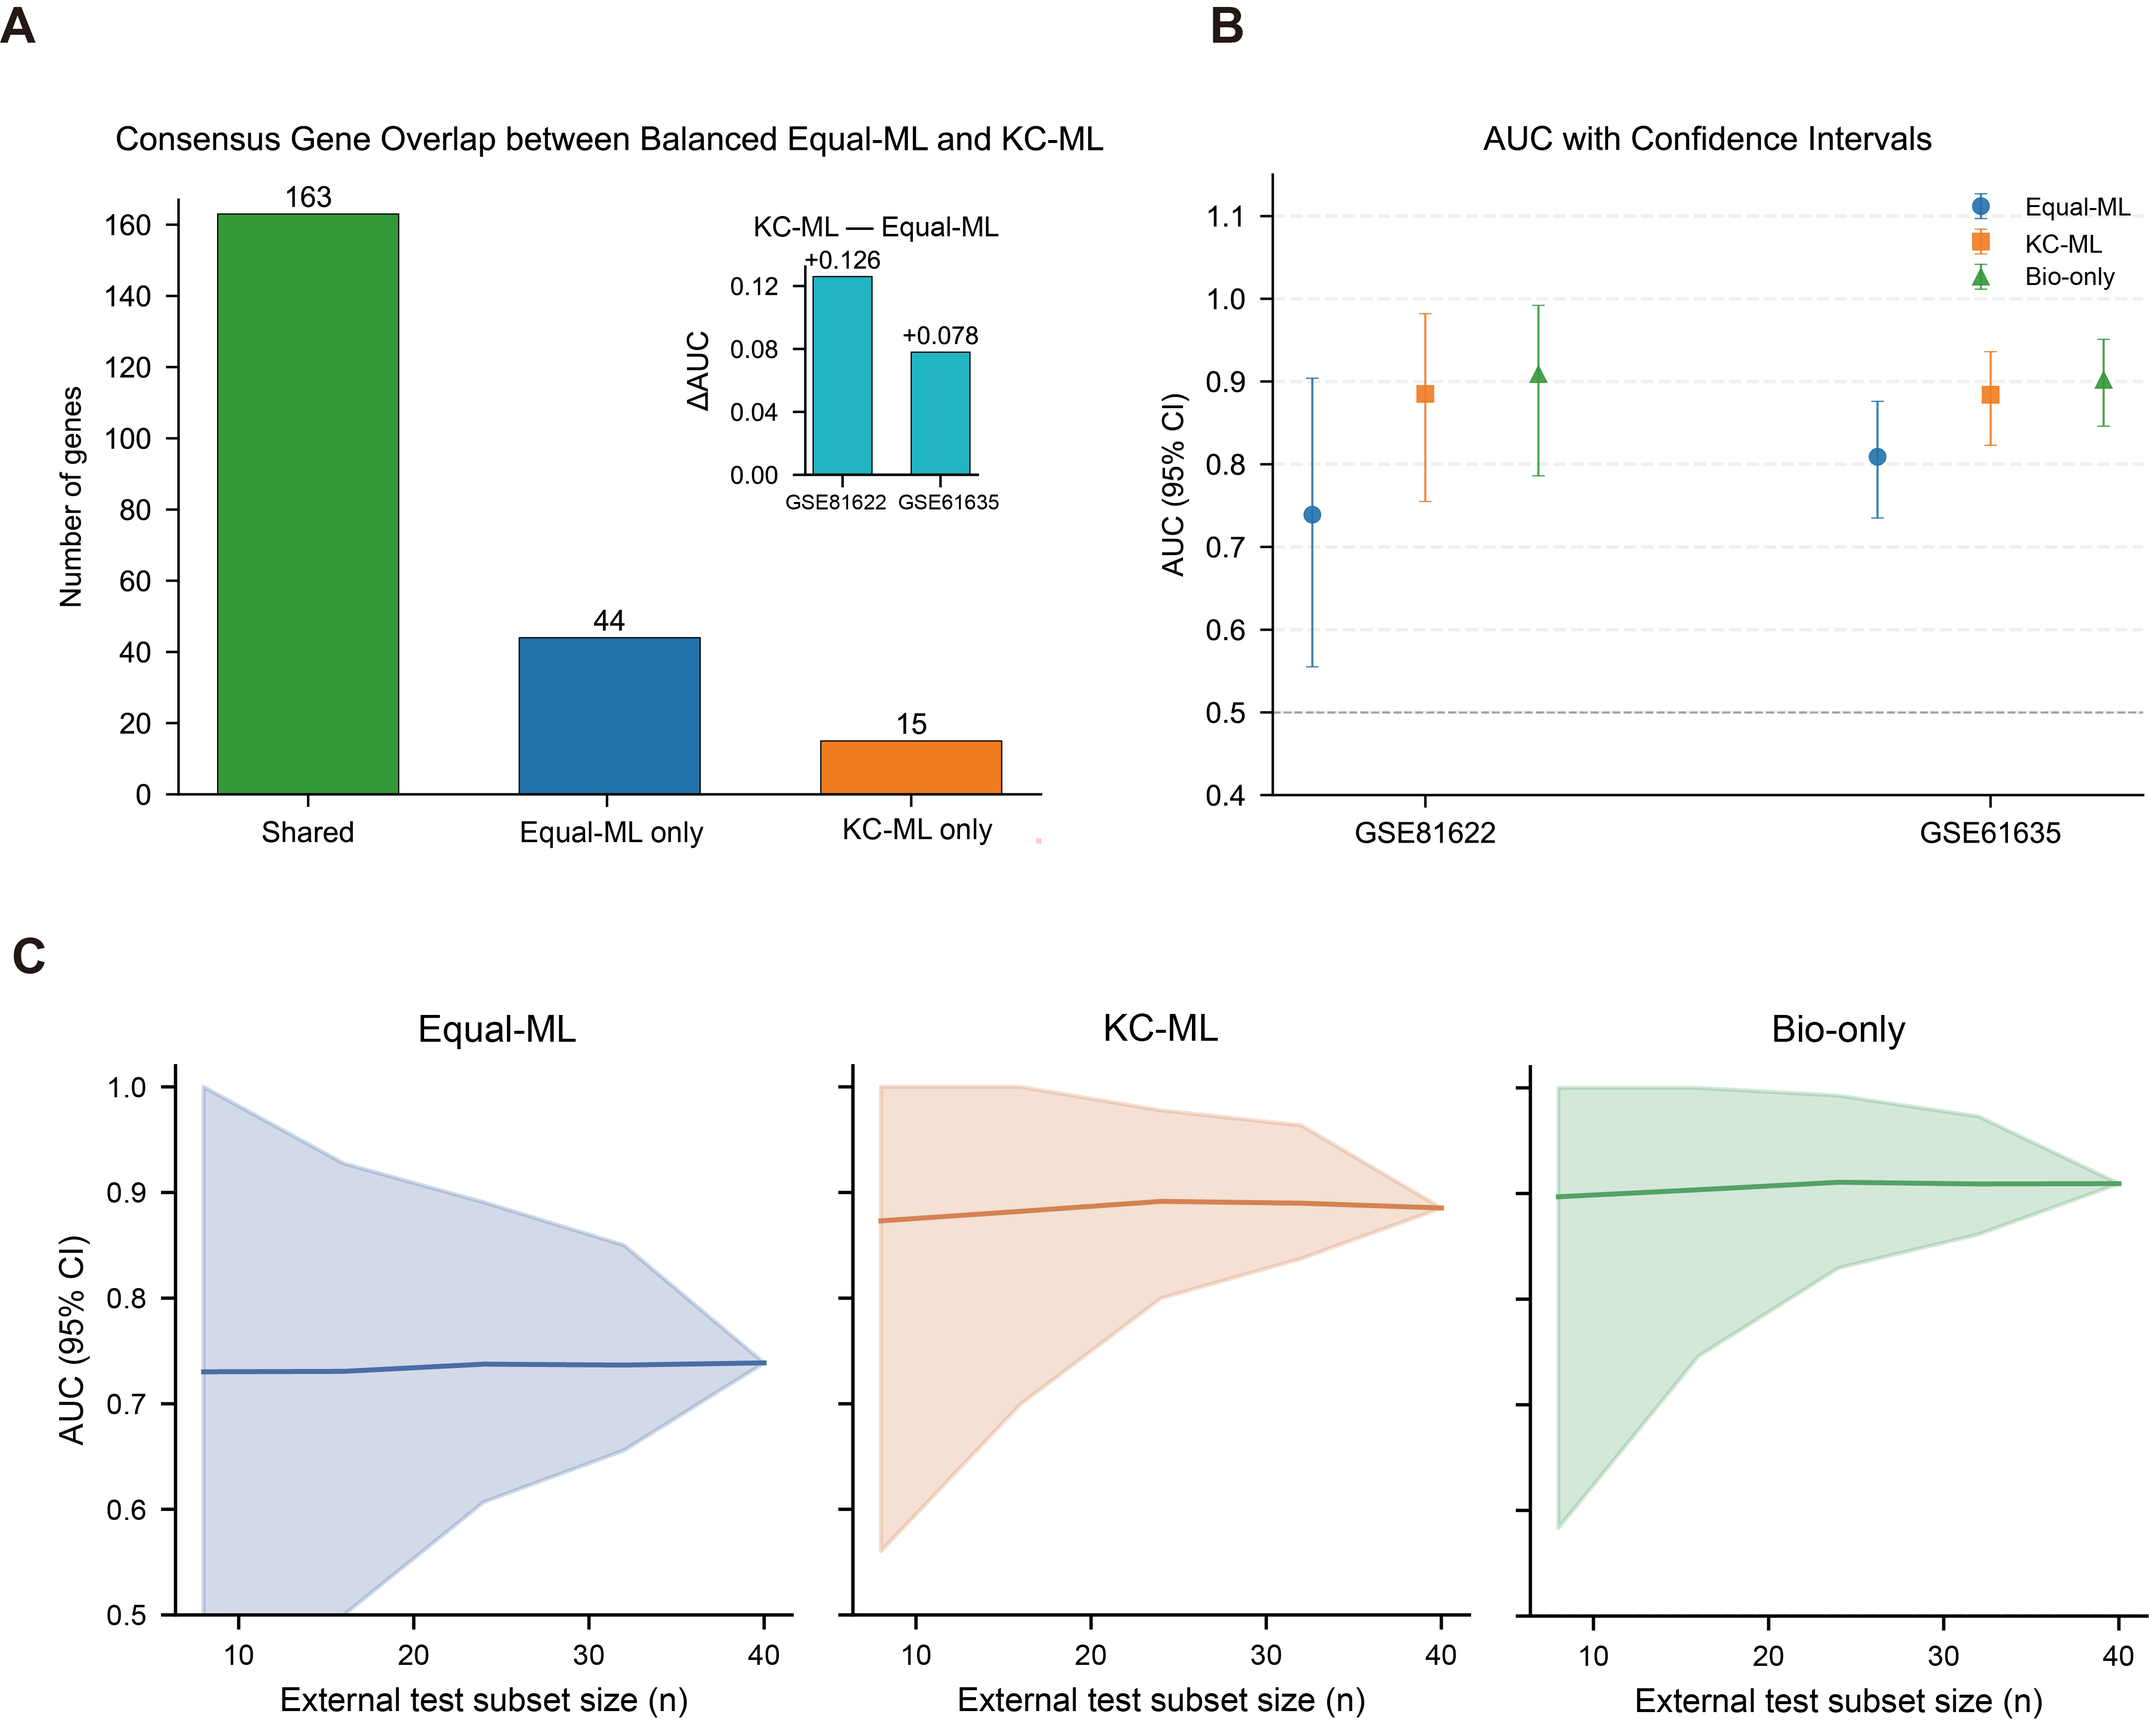
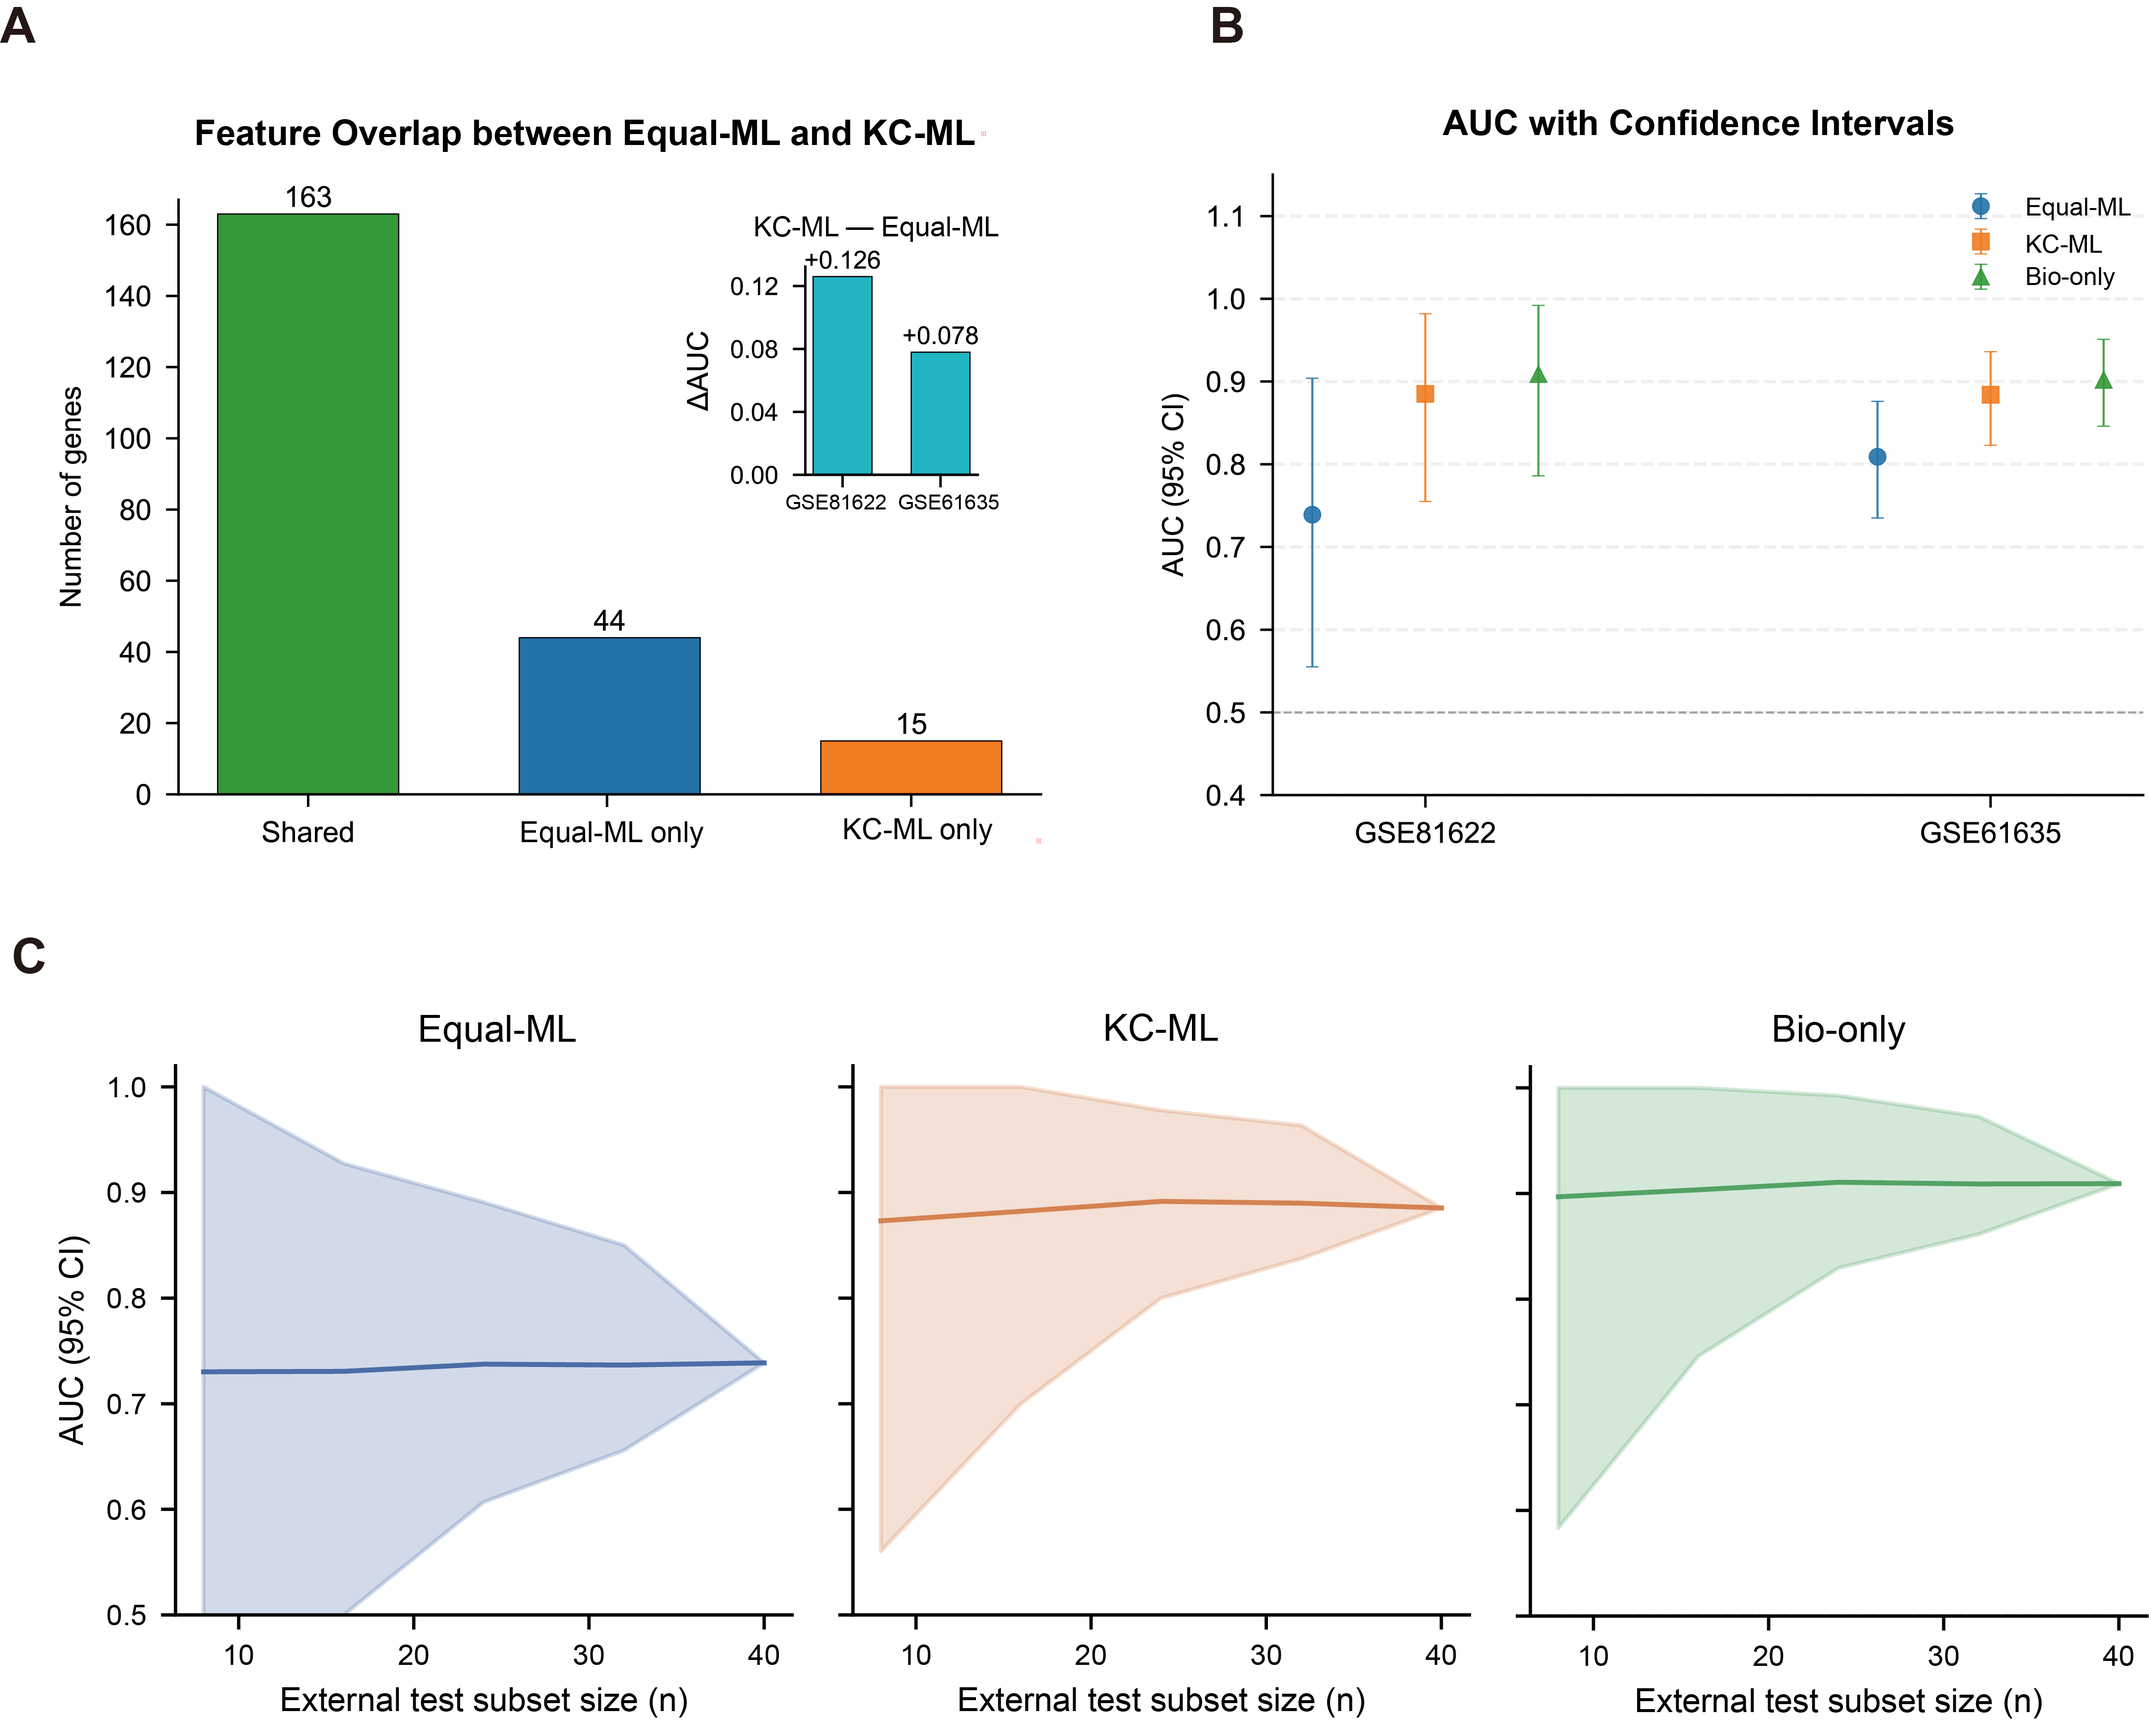
fix

Changed region(s): [[0.0624, 0.0622, 0.4992, 0.0934], [0.6552, 0.0622, 0.9048, 0.0934]]

diff --git a/README.md b/README.md
@@ -28,14 +28,14 @@ pip install "numpy<1.24"
 ## 🚀 Key Features & Performance
 
 **KC-ML enhances feature stability and robustness.** 
-Unlike unweighted models that suffer from performance degradation in small sample sizes, KC-ML maintains high predictive accuracy and consensus stability.
+Unlike unweighted models that suffer from performance degradation in small sample sizes, KC-ML maintains high predictive accuracy and stability.
 
 <!-- 这里插入 Figure 6：展示硬核实力 -->
 <p align="center">
   <img src="Figure6_Robustness.png" width="800" alt="Robustness Analysis">
 </p>
 
-*   **Panel A**: KC-ML improves consensus gene identification across cohorts.
+*   **Panel A**: KC-ML reduces the inclusion of potentially unstable or method-specific.
 *   **Panel B**: Superior AUC performance compared to Equal-ML approaches.
 *   **Panel C**: Consistent robustness even with reduced training sample sizes (Ablation study).
 
